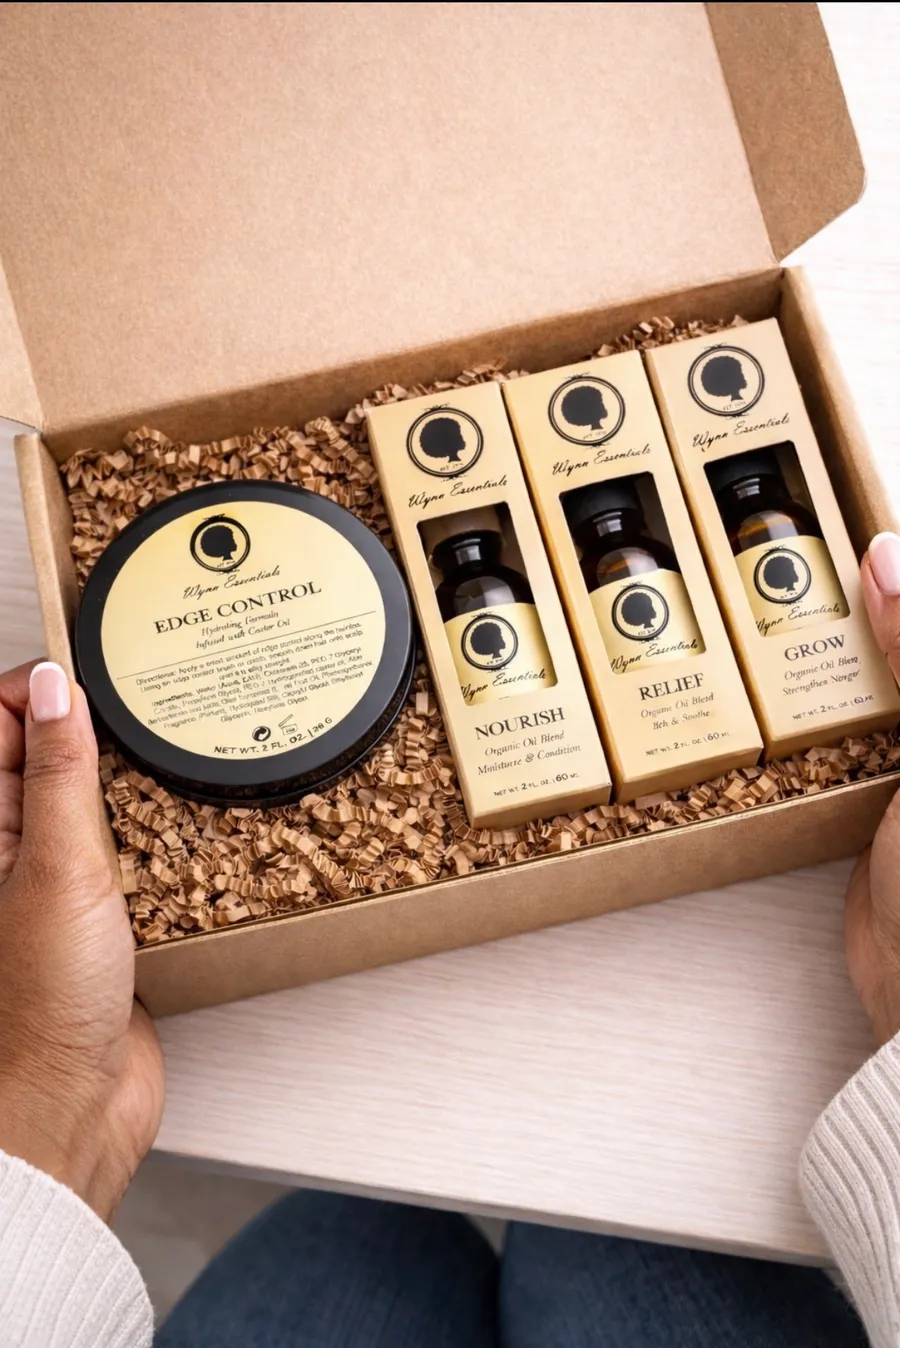
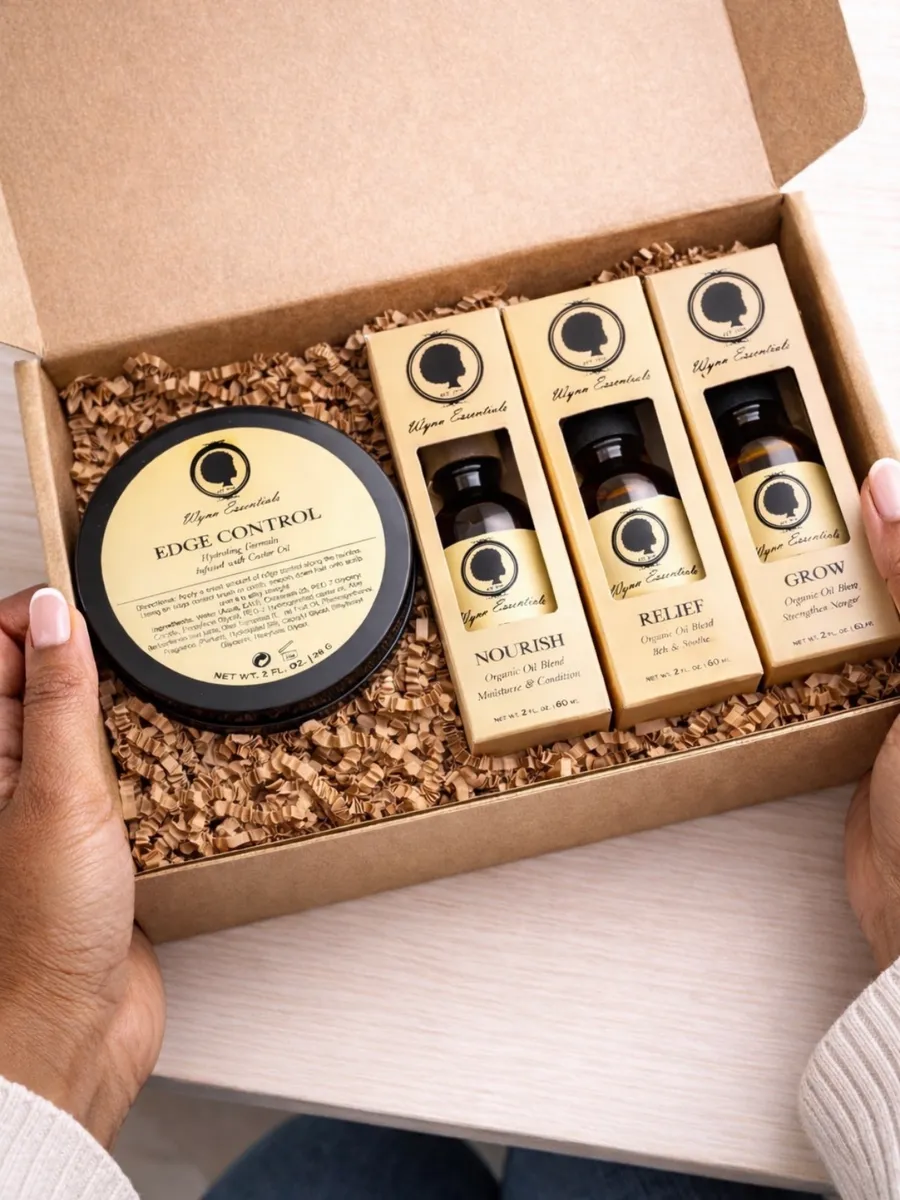
Make founders gallery a uniform 3x3 of nine photos
Add a ninth photo (three hands with Grow, Nourish, and Relief) so the
gallery is an even 3x3, and re-crop every image to identical 900x1200 (3:4)
so all nine render at exactly the same size. Uniform width/height on each
img matches the source and the .founder-gallery aspect-ratio.

Claude-Session: https://claude.ai/code/session_01L1WvdthjDWgGxSCZ7s5DrR

diff --git a/app/WynnShop.tsx b/app/WynnShop.tsx
@@ -439,7 +439,7 @@ export default function WynnShop() {
       <section className="hair-campaign"><img src="/campaign-cared-for.jpeg" loading="lazy" width="1206" height="1974" alt="Model with long, glossy hair styled around Wynn Essentials Nourish Oil"/><div><h2>Hair That Looks Cared For.</h2><p>Moisture you can feel. Strength you can support. A routine you can repeat.</p><a className="button" href="#routine-finder">Find Your Routine</a></div></section>
       <section id="our-story" className="founder section">
         <div className="founder-intro"><p className="eyebrow">WHY WYNN ESSENTIALS EXISTS</p><h2>Intentional care,<br />at every stage.</h2><p>Wynn Essentials was founded in 2020 from a shared belief that textured hair deserves thoughtful care at every stage of the routine. The collection brings cleansing, conditioning, moisture, scalp care, styling support, protective-style essentials, and premium hair together so customers can build a routine that feels clear, consistent, and made for them.</p><img className="founder-story-image" src="/wynn-essentials-scarf-story.jpeg" width="1206" height="1800" loading="lazy" alt="Pink Wynn Essentials scarf featuring the brand silhouette and established 2020 pattern"/></div>
-        <div className="founders-panel"><p className="eyebrow">MEET THE FOUNDERS</p><h3>The Wynn Sisters</h3><p>Patricia Wynn, Karina Wynn, and Sheree Wynn are the three sisters behind Wynn Essentials. Together, they created a family-led brand that makes textured-hair care feel more intentional and less overwhelming. Their collection supports the full routine—from cleansing, conditioning, and daily moisture to scalp care, protective styling, and finishing—so every customer can care for her crown with confidence, consistency, and pride.</p><ul className="founders-list"><li>Patricia Wynn</li><li>Karina Wynn</li><li>Sheree Wynn</li></ul><ul className="founder-facts"><li>{brandConfig.founder.ownership}</li><li>{brandConfig.founder.established}</li><li>{brandConfig.founder.location}</li></ul><div className="founder-gallery"><img src="/collections/wynn-essentials-linen-bag.webp" alt="Wynn Essentials linen drawstring pouch in a kraft gift box" width="900" height="1340" loading="lazy"/><img src="/collections/wynn-essentials-oils-giftbox.webp" alt="Wynn Essentials gift box with Edge Control, Nourish, Relief, and Grow" width="900" height="1348" loading="lazy"/><img src="/collections/wynn-essentials-brand-bag.webp" alt="Wynn Essentials kraft shopping bag with Grow oil and a wooden brush on a table" width="832" height="1248" loading="lazy"/><img src="/collections/wynn-essentials-spa-shelf.webp" alt="Wynn Essentials Lathyr, Uplyft, and Revaivl styled on a spa bathroom shelf" width="900" height="1957" loading="lazy"/><img src="/collections/wynn-essentials-gold-editorial.webp" alt="Wynn Essentials Nourish oil in a gold editorial vanity flat lay" width="900" height="1570" loading="lazy"/><img src="/collections/wynn-essentials-natural-girlies.webp" alt="Wynn Essentials full collection in a basket beside a Natural Girlies magazine" width="900" height="1592" loading="lazy"/><img src="/collections/wynn-essentials-nourish-hair.webp" alt="Nourish oil bottles nestled in styled natural hair" width="900" height="1590" loading="lazy"/><img src="/collections/wynn-essentials-vending-machine.webp" alt="Wynn Essentials branded vending machine stocked with Hydrate on a Los Angeles street" width="900" height="1581" loading="lazy"/></div></div>
+        <div className="founders-panel"><p className="eyebrow">MEET THE FOUNDERS</p><h3>The Wynn Sisters</h3><p>Patricia Wynn, Karina Wynn, and Sheree Wynn are the three sisters behind Wynn Essentials. Together, they created a family-led brand that makes textured-hair care feel more intentional and less overwhelming. Their collection supports the full routine—from cleansing, conditioning, and daily moisture to scalp care, protective styling, and finishing—so every customer can care for her crown with confidence, consistency, and pride.</p><ul className="founders-list"><li>Patricia Wynn</li><li>Karina Wynn</li><li>Sheree Wynn</li></ul><ul className="founder-facts"><li>{brandConfig.founder.ownership}</li><li>{brandConfig.founder.established}</li><li>{brandConfig.founder.location}</li></ul><div className="founder-gallery"><img src="/collections/wynn-essentials-linen-bag.webp" alt="Wynn Essentials linen drawstring pouch in a kraft gift box" width="900" height="1200" loading="lazy"/><img src="/collections/wynn-essentials-oils-giftbox.webp" alt="Wynn Essentials gift box with Edge Control, Nourish, Relief, and Grow" width="900" height="1200" loading="lazy"/><img src="/collections/wynn-essentials-brand-bag.webp" alt="Wynn Essentials kraft shopping bag with Grow oil and a wooden brush on a table" width="900" height="1200" loading="lazy"/><img src="/collections/wynn-essentials-spa-shelf.webp" alt="Wynn Essentials Lathyr, Uplyft, and Revaivl styled on a spa bathroom shelf" width="900" height="1200" loading="lazy"/><img src="/collections/wynn-essentials-gold-editorial.webp" alt="Wynn Essentials Nourish oil in a gold editorial vanity flat lay" width="900" height="1200" loading="lazy"/><img src="/collections/wynn-essentials-natural-girlies.webp" alt="Wynn Essentials full collection in a basket beside a Natural Girlies magazine" width="900" height="1200" loading="lazy"/><img src="/collections/wynn-essentials-nourish-hair.webp" alt="Nourish oil bottles nestled in styled natural hair" width="900" height="1200" loading="lazy"/><img src="/collections/wynn-essentials-vending-machine.webp" alt="Wynn Essentials branded vending machine stocked with Hydrate on a Los Angeles street" width="900" height="1200" loading="lazy"/><img src="/collections/wynn-essentials-three-hands.webp" alt="Three hands reaching for Wynn Essentials Grow, Nourish, and Relief oils" width="900" height="1200" loading="lazy"/></div></div>
       </section>
       <RoutineFinder add={add} openProduct={openProduct}/>
       <section className="newsletter"><p className="eyebrow">THE WYNN EDIT</p><h2>Good Hair Information<br />Belongs in Your Inbox.</h2><p>Receive routine guidance, ingredient education, product releases, and early access from Wynn Essentials.</p><form onSubmit={async (e:FormEvent<HTMLFormElement>)=>{e.preventDefault();const form=e.currentTarget;const data=new FormData(form);const email=String(data.get("email")||"").trim();const phone=String(data.get("phone")||"").trim();const consent=data.get("consent")==="on";try{const res=await fetch("/api/subscribe",{method:"POST",headers:{"Content-Type":"application/json"},body:JSON.stringify({email,phone,consent})});const result=await res.json() as {ok?:boolean;error?:string};if(!res.ok||!result.ok)throw new Error(result.error||"Signup is unavailable right now.");setNotice("Thanks for joining The Wynn Edit. We'll be in touch soon.");form.reset();}catch(err){setNotice(err instanceof Error?err.message:"Signup is unavailable right now.");}}}><label>Email address<input name="email" required type="email" placeholder="you@example.com"/></label><label>Phone number (optional)<input name="phone" type="tel" placeholder="(555) 555-5555"/></label><label className="consent"><input name="consent" required type="checkbox"/> I agree to receive marketing messages.</label><button className="button">Join the List</button><small>{brandConfig.consent}</small></form></section>
